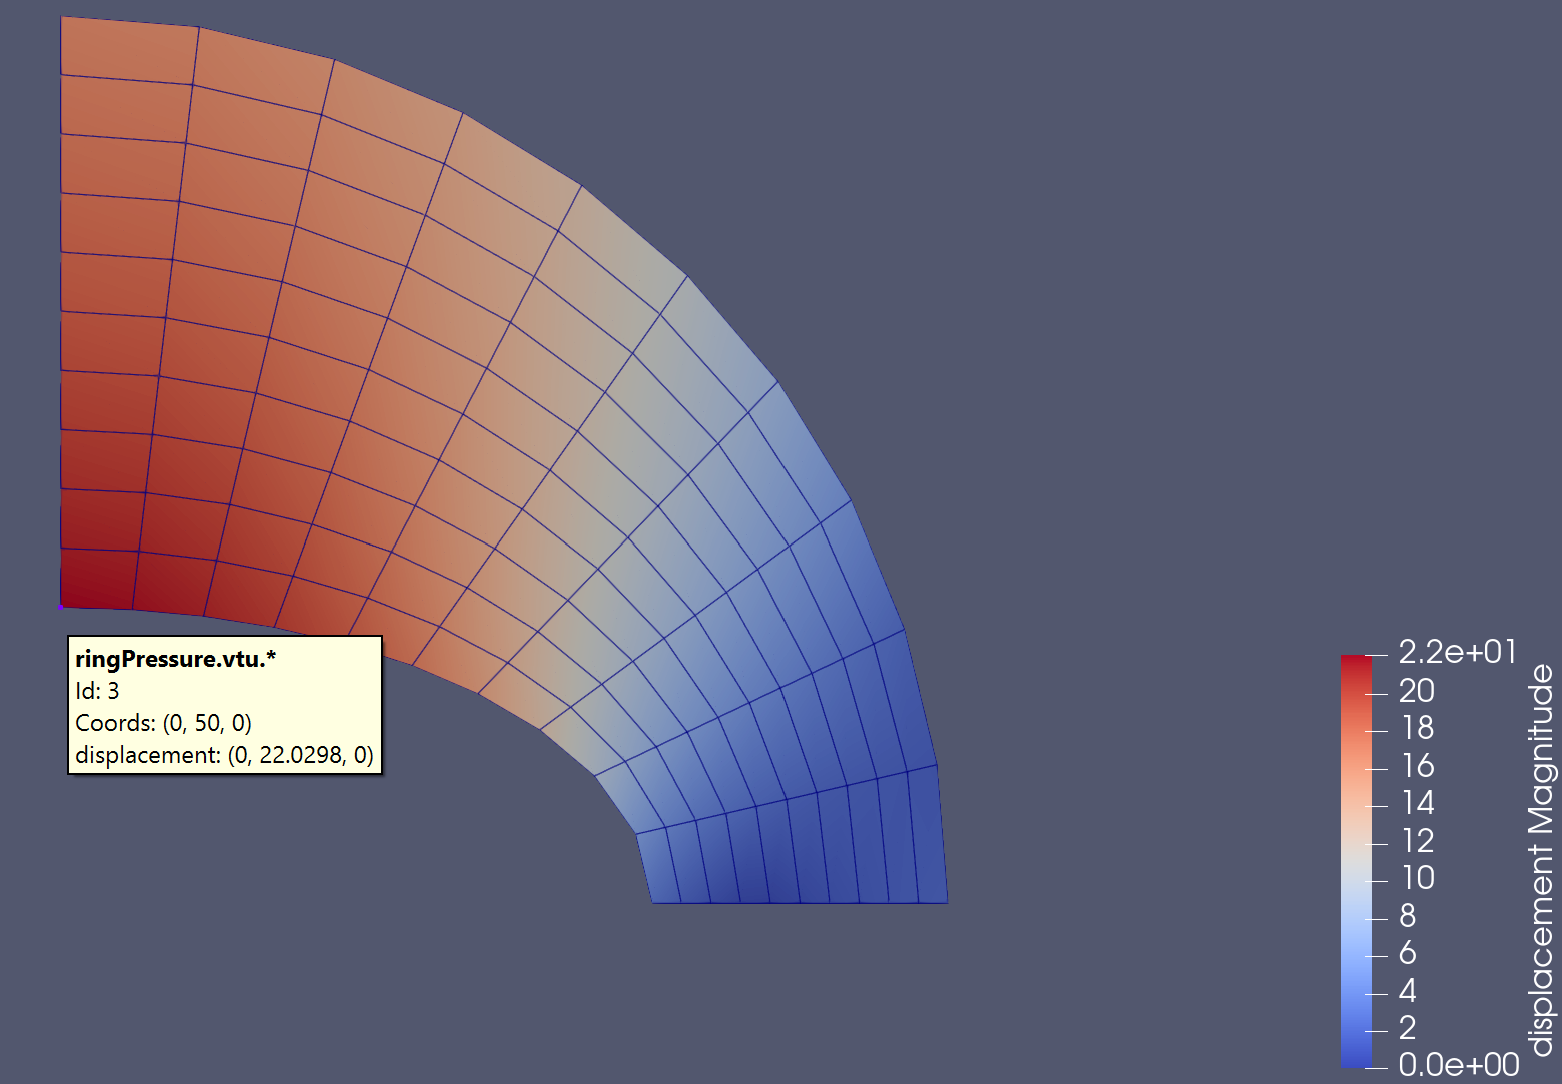
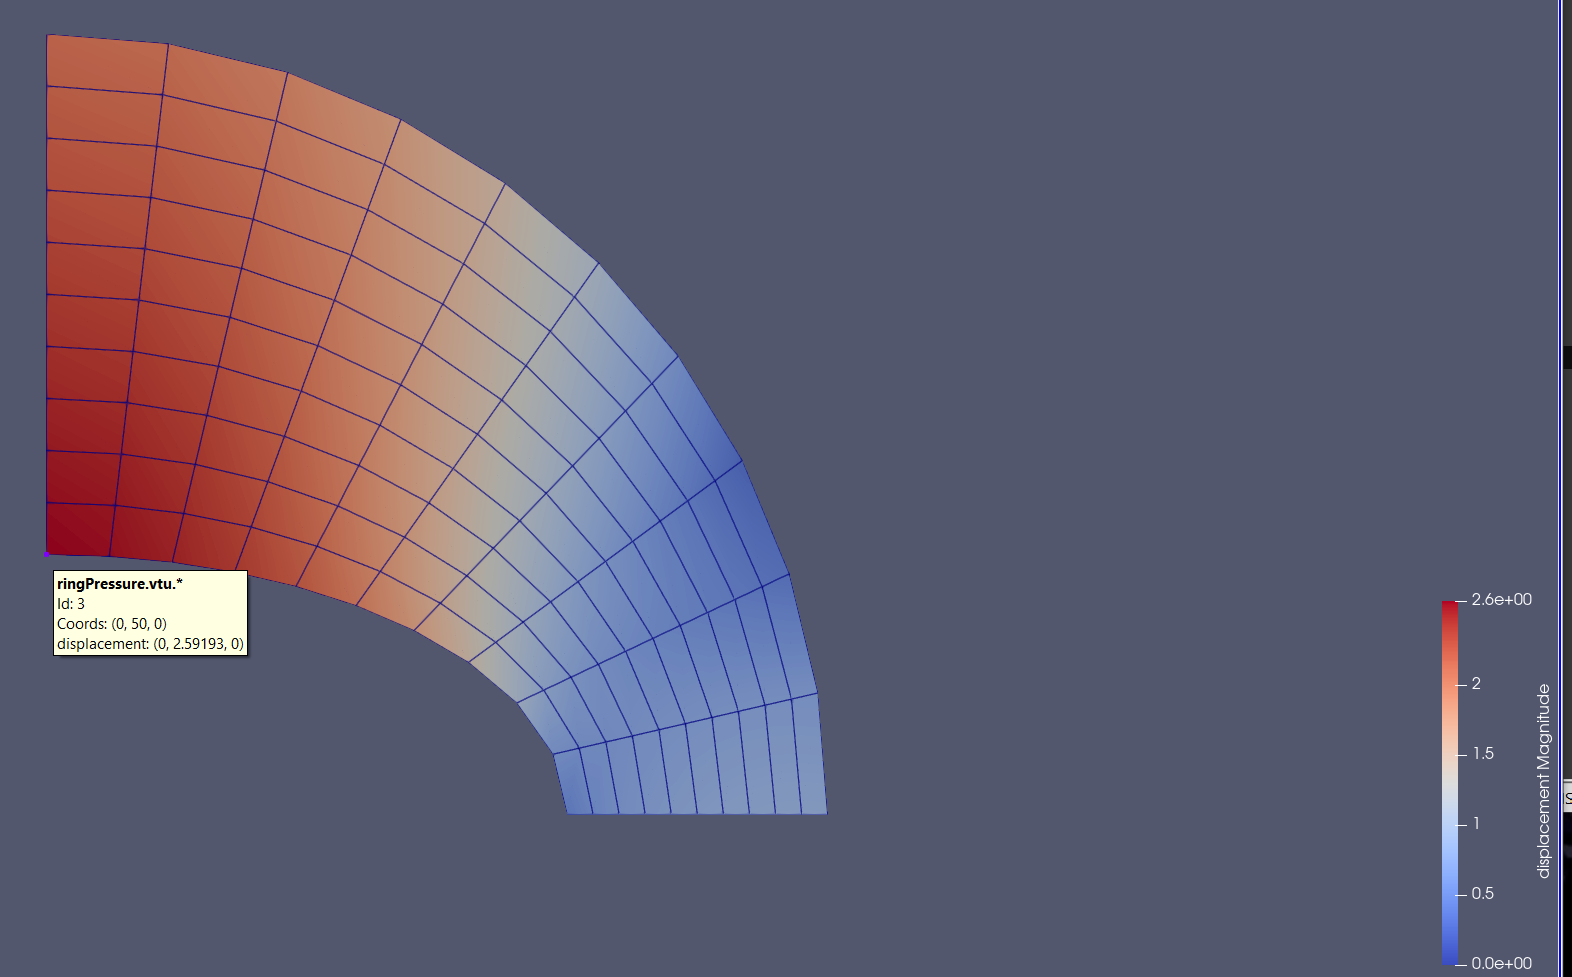
Excercise 2 V2

Changed region(s): [[0.0307, 0.0, 0.6146, 0.8598], [0.8604, 0.0, 1.0, 1.0]]

diff --git a/examples/ringPressure/ringPressure.py b/examples/ringPressure/ringPressure.py
@@ -15,7 +15,7 @@ class MyBCHandler(BCHandler):
         bottom_boundary = 3
         left_boundary = 4
         ellipsis_boundary = 1
-        pressure = 5e2 * time_stamp.time / self._model.time_bar[-1].time
+        pressure = 2e2 * time_stamp.time / self._model.time_bar[-1].time
 
         for node in self._model.getBoundary(bottom_boundary).node_list:
             node.setBCIncrement(y=0.0)
